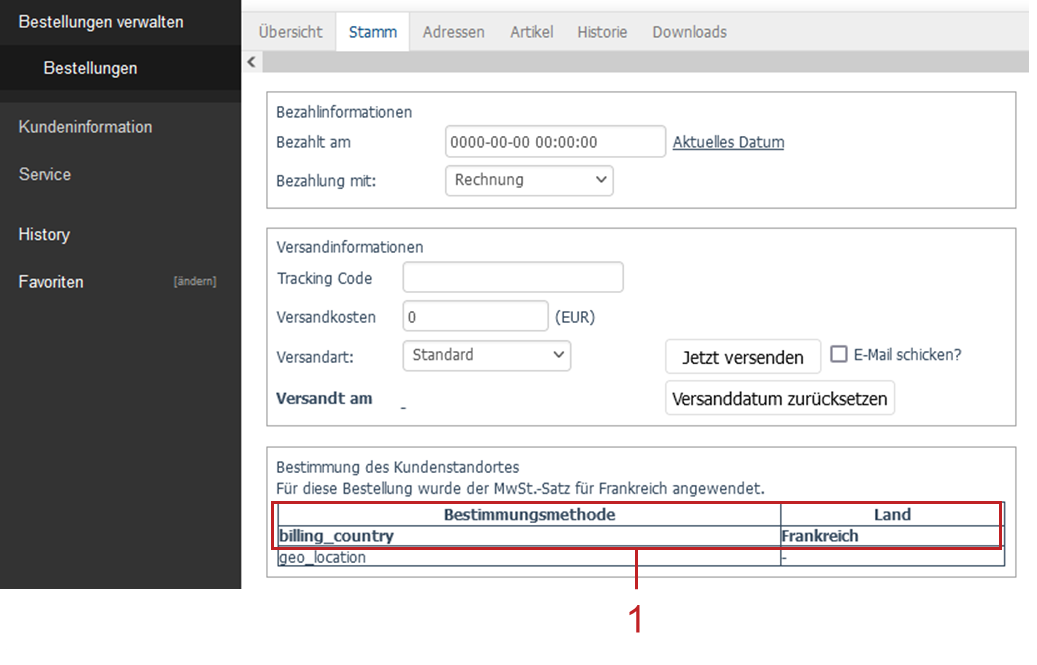
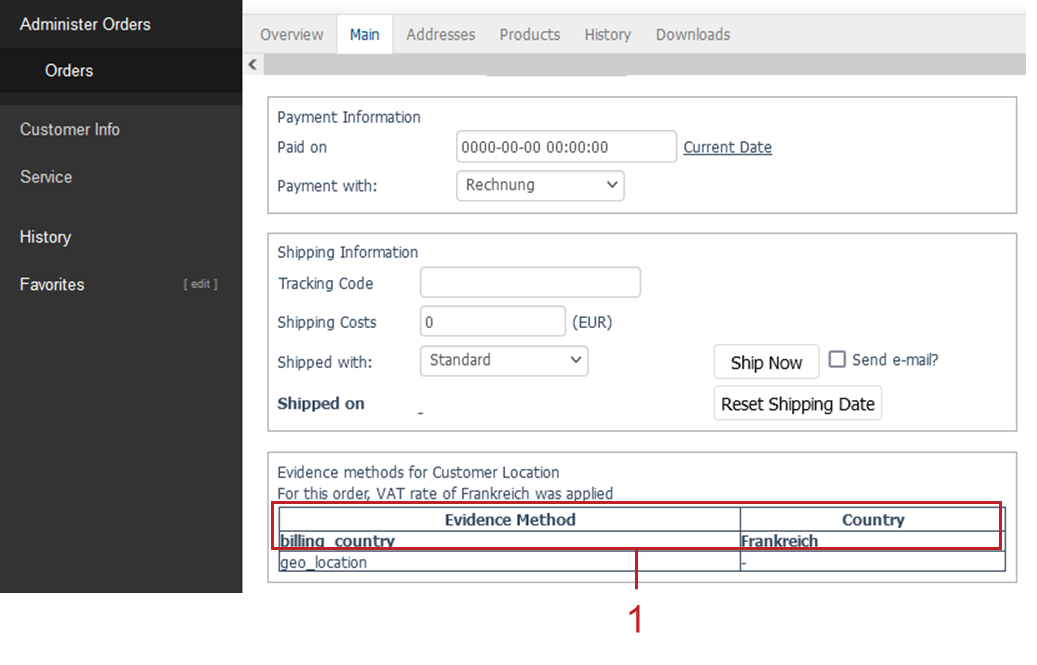
eVAT Initial Version: operation -- EN

diff --git a/operation.rst b/operation.rst
@@ -1,119 +1,119 @@
-Betrieb
-=======
+Operation
+=========
 
-Nutzen Sie im laufenden Betrieb folgende Funktionen des Moduls :productname:`OXID eShop eVAT`:
+Use the following functions of the :productname:`OXID eShop eVAT` module during operation:
 
-* Kundenstandort in der Bestellung anzeigen
-* Umsatzsteuer-Identifikationsnummer anzeigen
-* Erweiterung der PDF-Rechnung nutzen
+* Display customer location in the order
+* Display sales tax identification number
+* Use PDF invoice extension
 
-Kundenstandort in der Bestellung anzeigen
------------------------------------------
+Displaying the customer location in an order
+--------------------------------------------
 
-Verifizieren Sie bei Bedarf, dass :productname:`OXID eShop eVAT` den Kundenstandort ermittelt hat.
+If required, verify that :productname:`OXID eShop eVAT` has determined the customer location.
 
 |prerequisites|
 
-Ihr Kunde hat mindestens einen Artikel gekauft, der als Telekommunikations-, Rundfunk-, Fernseh- und auf elektronischem Weg erbrachte Dienstleistungen gilt.
+Your customer has purchased at least one item that qualifies as telecommunications, broadcasting, television, and electronically delivered service.
 
 |procedure|
 
-1. Wählen Sie :guilabel:`Bestellungen verwalten --> Bestellungen`.
-2. Wählen Sie eine Bestellung, die einen elektronischen Artikel enthält.
+1. Choose :guilabel:`Administer Orders --> Orders`.
+2. Choose an order that contains an electronic item.
 
 |result|
 
-Auf der Registerkarte :guilabel:`Stamm` wird am unteren Ende des Eingabebereichs das Ergebnis der Bestimmung des Kundenstandortes angezeigt (:ref:`oxdakd01`, Pos. 1).
+On the :guilabel:`Main` tab, below the input area, the result of determining the customer location is displayed (:ref:`oxdakd01`, item 1).
 
 .. _oxdakd01:
 
 .. figure:: /media/screenshots/oxdakd01.png
    :class: with-shadow
    :width: 650
-   :alt: Kundenstandort in der Bestellung anzeigen
+   :alt: Displaying the customer location in an order
 
-   Abb.: Kundenstandort in der Bestellung anzeigen
+   Figure: Displaying the customer location in an order
 
 
-Umsatzsteuer-Identifikationsnummer anzeigen
--------------------------------------------
+Displaying the VAT ID
+---------------------
 
-Zeigen Sie bei Bedarf die Umsatzsteuer-Identifikationsnummer des Kunden sowie Datum und Zeit der Speicherung an.
+If required, display the customer's VAT ID and the date and time it was saved.
 
-Das Modul :productname:`OXID eShop eVAT` stellt sicher, dass die von einem Kunden eingegebene Umsatzsteuer-Identifikationsnummer (USt-IdNr.) zusammen mit Datum und Zeit gespeichert wird, wenn sie gültig ist.
+The :productname:`OXID eShop eVAT` module ensures that the VAT number (VAT ID) entered by a customer is saved along with the date and time when it is valid.
 
-.. todo: #SB/#Joe: was bedeutet " ab wann der Kunde dem Shop gegenüber als steuerpflichtig anzusehen ist"? -- Was könnte der rechtliche Anwendungsfall der Info sein? -- Huíntergrund ist ja: Auslandskunden mit USt-ID zahlen dem Shopbetreiber keine MWSt., sondern  den Nettopreis.
-    Warum genau ist das Datum wichtig (ohne eVAT-Modul wird nur die USt-ID angezeigt).
+VAT ID, date and time give you an indication that and from when the customer is considered to be liable to pay VAT to the store.
 
-USt-IdNr., Datum und Uhrzeit geben Ihnen einen Hinweis darauf, dass und ab wann der Kunde dem Shop gegenüber als steuerpflichtig anzusehen ist.
-
-Der Kunde kann die Umsatzsteuer-Identifikationsnummer bei der Registrierung oder im Bestellprozess angeben. Er kann sie auch zu einem späteren Zeitpunkt in seinem Kundenkonto nachtragen.
+Customers can provide the VAT ID when registering or during the ordering process. They can also enter it later in their customer accounts.
 
 |procedure|
 
-1. Wählen Sie :menuselection:`Benutzer verwalten --> Benutzer`.
-#. Wählen Sie den Benutzer.
-#. Wählen Sie die Registerkarte :guilabel:`Stamm`.
+1. Choose :menuselection:`Administer Users --> Users`.
+#. Choose the user.
+#. Choose the :guilabel:`Main` tab.
 
 |result|
 
-Die Umsatzsteuer-Identifikationsnummer wird mit Datum und Zeit der Eingabe angezeigt (:ref:`oxdakd02`, Pos. 1).
+The VAT ID is displayed with the date and time it was entered (:ref:`oxdakd02`, item 1).
 
-.. todo: #HR: der Zeitstempel wird nicht (mehr) angezeigt) -- Bug, wird gefixt
-.. todo: Bild neu machen DE/EN
+.. todo: #HR: the timestamp is not displayed (anymore)) -- bug, will be fixed
+.. todo: tbd: Redo image DE/EN
 
 .. _oxdakd02:
 
 .. figure:: /media/screenshots/oxdakd02.png
    :width: 450
-   :alt: Umsatzsteuer-ID-Nr. anzeigen
+   :alt: Displaying VAT ID
 
-   Abb.: Umsatzsteuer-ID-Nr. anzeigen
+   Fig.: Displaying VAT ID
 
 
-Erweiterung der PDF-Rechnung nutzen
------------------------------------
+Using the PDF invoice extension
+-------------------------------
 
-Enthält eine Bestellung Artikel, welche als Telekommunikations-, Rundfunk-, Fernseh- und auf elektronischem Weg erbrachte Dienstleistungen gelten, fügt :productname:`OXID eShop eVAT` zusätzliche Informationen zur PDF-Rechnung hinzu.
+If an order contains items that are considered telecommunications, broadcasting, television and electronically provided services, :productname:`OXID eShop eVAT` adds additional information to the PDF invoice.
 
-Mit einem Sternchen :guilabel:`*` wird auf den verwendeten Mehrwertsteuersatz hingewiesen (:ref:`oxdakd03`, Pos. 1).
+An asterisk :guilabel:`*` indicates the VAT rate used (:ref:`oxdakd03`, item 1).
 
-Eine Meldung informiert über das Land, dessen Mehrwertsteuersatz zur Berechnung des Artikelpreises herangezogen wurde (:ref:`oxdakd03`, Pos. 2).
+A message informs about the country whose VAT rate was used to calculate the item price (:ref:`oxdakd03`, item 2).
 
 .. _oxdakd03:
 
 .. figure:: /media/screenshots/oxdakd03.png
    :class: with-shadow
    :width: 650
-   :alt: Hinweis auf Mehrwertsteuersatz in PDF-Rechnung
+   :alt: Note on VAT rate in PDF invoice
 
-   Abb.: Hinweis auf Mehrwertsteuersatz in PDF-Rechnung
-
-
-Mehrwertsteuersätze pflegen
----------------------------
+   Fig.: Note on VAT rate in PDF invoice
 
 
-Die aktuellen Mehrwertsteuersätze der verschiedenen Länder sind im Modul statisch hinterlegt. Sie werden nicht automatisch aktualisiert.
+Maintaining VAT rates
+---------------------
 
-Sobald Sie :productname:`OXID eShop eVAT` aktiviert haben, müssen Sie als Shopbetreiber die Mehrwertsteuersätze pflegen.
+The current VAT rates of the different countries are statically stored in the module. They are not updated automatically.
+
+Once you have enabled :productname:`OXID eShop eVAT`, as a store owner you need to maintain the VAT rates.
 
 .. tip::
 
-   Um sich über mögliche Änderungen der Mehrwertsteuersätze auf dem Laufenden zu halten, abonnieren Sie einen Informationsservice.
+   To keep up to date with possible changes in VAT rates, subscribe to an information service.
 
 |prerequisites|
 
-Sie haben beim Konfigurieren sichergestellt, dass unter :menuselection:`Artikel verwalten --> Artikel --> <elektronisch erbrachte Dienstleistung> --> eVAT-Einstellungen` jedem betreffenden Artikel der für das jeweilige Land gültige Mehrwertsteuersatz zugeordnet ist.
+When configuring :productname:`OXID eShop eVAT`, under :menuselection:`Administer Products --> Products --> <electronically supplied service> --> eVAT Settings` you have ensured that each item in question is assigned the VAT rate valid for that country.
 
-Weitere Informationen finden Sie unter
+For more information, see
 
-* :ref:`configuration:Artikel als elektronisches Produkt markieren und Mehrwertsteuersatz zuordnen`
-* :ref:`configuration:Kategorie als elektronisches Produkt markieren und Mehrwertsteuersatz zuordnen`
+* :ref:`configuration:Mark item as electronic product and assign VAT rate`
+* :ref:`configuration:Mark category as electronic product and assign VAT rate`
 
 |procedure|
 
-Pflegen Sie die Mehrwertsteuersätze unter :menuselection:`Stammdaten --> Länder --> <Land> --> MwSt.-Sätze`.
+Maintain the VAT rates under :menuselection:`Master Settings --> Countries --> <country> --> VAT rates`.
+
+.. todo: #tbd: add xref in DE:
+
+For more information, see :ref:`configuration:Activating and maintaining country-specific VAT rates`
 
 
 

diff --git a/configuration.rst b/configuration.rst
@@ -28,8 +28,8 @@ Enable :productname:`OXID eShop eVAT` in each subshop where you want to use the 
 Configuring eVAT
 ----------------
 
-Activating country specific VAT rates
-^^^^^^^^^^^^^^^^^^^^^^^^^^^^^^^^^^^^^
+Activating and maintaining country-specific VAT rates
+^^^^^^^^^^^^^^^^^^^^^^^^^^^^^^^^^^^^^^^^^^^^^^^^^^^^^
 
 Activate the calculation of the VAT for the relevant countries.
 
